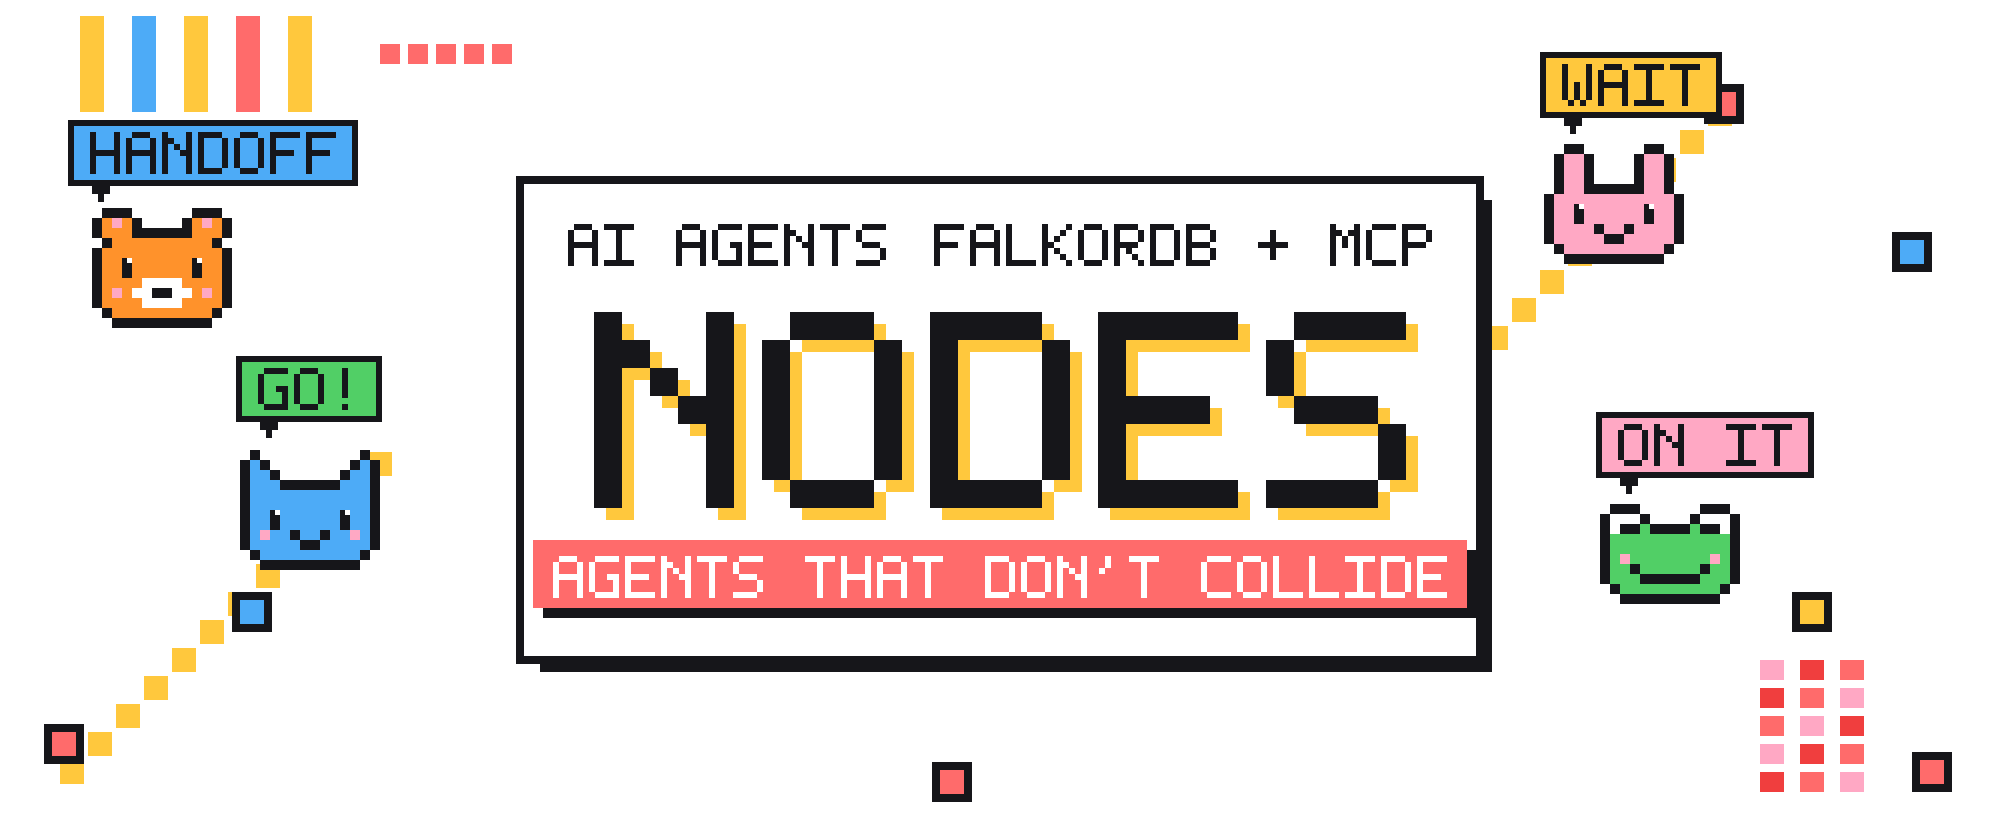
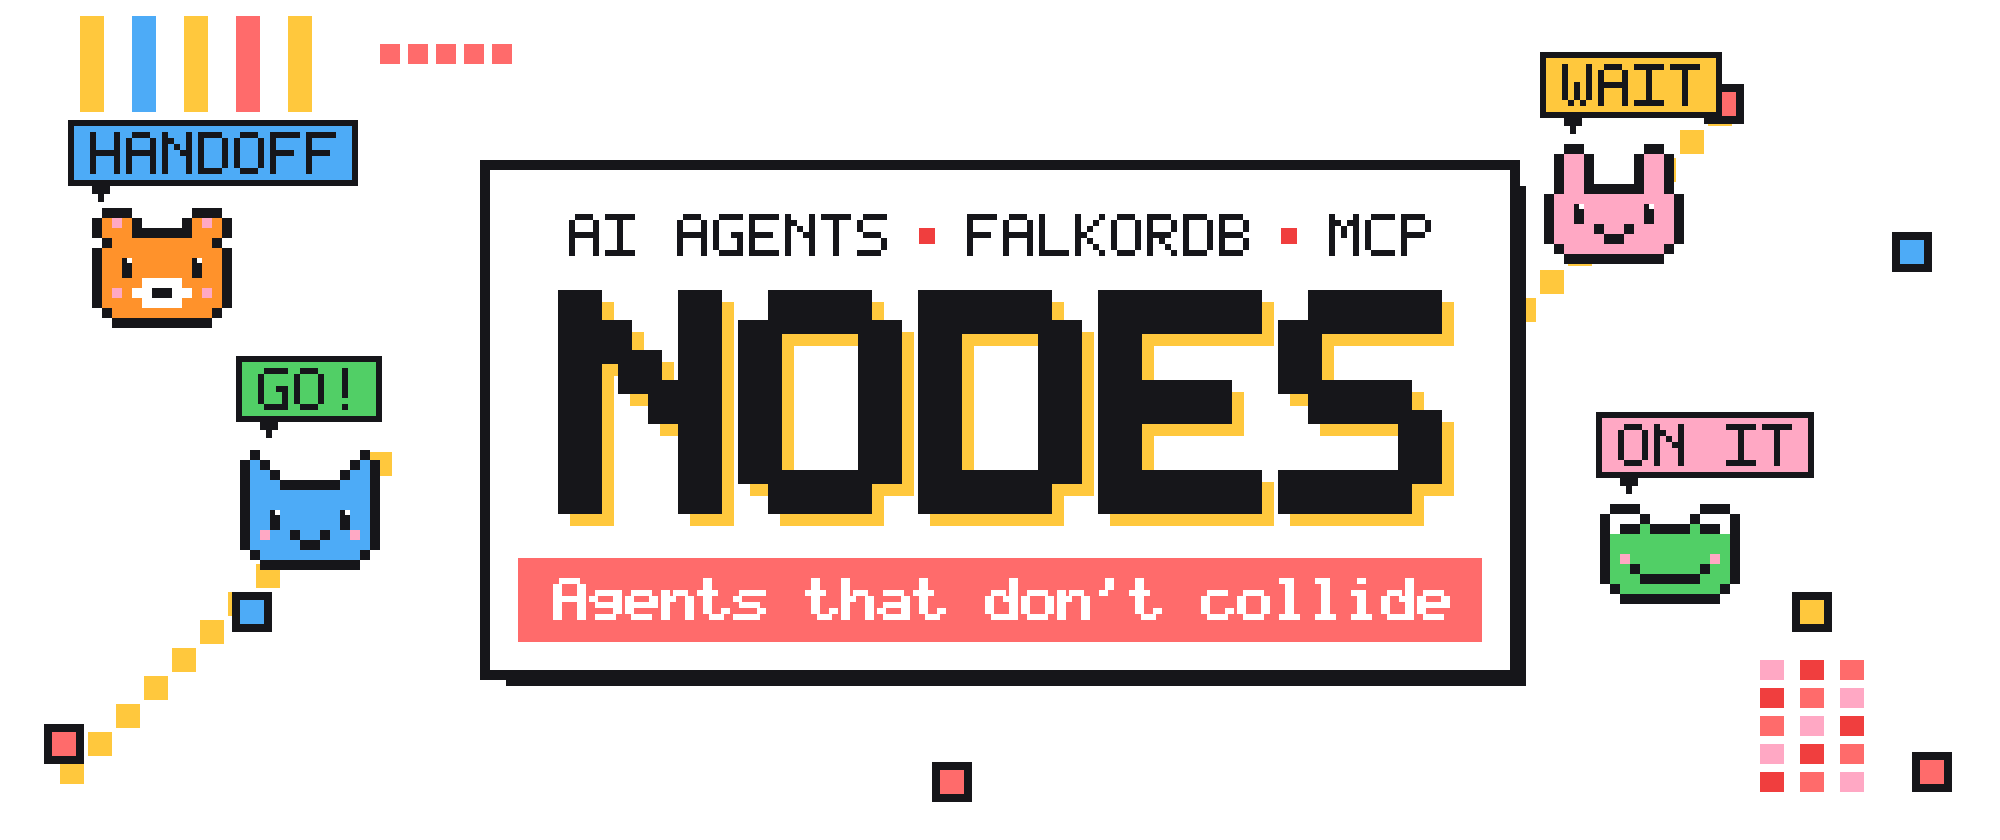
Cover: bold title, dotted header, mixed-case tagline bar

Changed region(s): [[0.217, 0.1857, 0.775, 0.8357]]

diff --git a/scripts/make_cover.py b/scripts/make_cover.py
@@ -46,6 +46,12 @@ FONT = {  # 5x7 pixel glyphs
     "+": "00000 00100 00100 11111 00100 00100 00000", ".": "00000 00000 00000 00000 00000 01100 01100",
     "!": "00100 00100 00100 00100 00100 00000 00100", "&": "01100 10010 10100 01000 10101 10010 01101",
     "/": "00001 00010 00010 00100 01000 01000 10000", "'": "00100 00100 01000 00000 00000 00000 00000", "·": "00000 00000 00000 01100 01100 00000 00000",
+    "a": "00000 00000 01110 00001 01111 10001 01111", "c": "00000 00000 01110 10000 10000 10001 01110",
+    "d": "00001 00001 01101 10011 10001 10001 01111", "e": "00000 00000 01110 10001 11111 10000 01110",
+    "g": "00000 00000 01111 10001 01111 00001 01110", "h": "10000 10000 10110 11001 10001 10001 10001",
+    "i": "00100 00000 01100 00100 00100 00100 01110", "l": "01100 00100 00100 00100 00100 00100 01110",
+    "n": "00000 00000 10110 11001 10001 10001 10001", "o": "00000 00000 01110 10001 10001 10001 01110",
+    "s": "00000 00000 01111 10000 01110 00001 11110", "t": "01000 01000 11100 01000 01000 01001 00110",
 }
 
 
@@ -118,24 +124,27 @@ for x0 in (880, 900, 920):  # a little pixel tower on the right
         rect(x0, 330 + k * 14, 12, 10, [RED, CORAL, PINK][(x0 // 20 + k) % 3])
 
 # the card
-cx, cy, cw, ch = 262, 92, 476, 236
+cx, cy, cw, ch = 245, 85, 510, 250
 rect(cx + 8, cy + 8, cw, ch, DARK)                     # hard pixel shadow
-rect(cx - 4, cy - 4, cw + 8, ch + 8, INK)
+rect(cx - 5, cy - 5, cw + 10, ch + 10, INK)
 rect(cx, cy, cw, ch, CREAM)
-text("AI AGENTS", cx + 22, cy + 20, 3, INK)
-right = "FALKORDB + MCP"
-text(right, cx + cw - 22 - width(right, 3), cy + 20, 3, INK)
+parts = ["AI AGENTS", "FALKORDB", "MCP"]               # header, split by red dots
+hw = sum(width(t, 3) for t in parts) + 40 * (len(parts) - 1)
+x = cx + (cw - hw) / 2
+for i, t in enumerate(parts):
+    x = text(t, x, cy + 22, 3, INK) - 3
+    if i < len(parts) - 1:
+        rect(x + 16, cy + 29, 8, 8, RED)
+        x += 40
 title = "NODES"
-tx = cx + (cw - width(title, 14)) / 2
-text(title, tx + 6, cy + 64 + 6, 14, YEL)               # offset shade
-text(title, tx, cy + 64, 14, DARK)
-pill = "AGENTS THAT DON'T COLLIDE"
-pw = width(pill, 3) + 20
-px0 = cx + (cw - pw) / 2
-rect(px0 + 5, cy + 178 + 5, pw, 34, INK)
-rect(px0, cy + 178, pw, 34, CORAL)
-rect(px0 + 3, cy + 181, pw - 6, 28, CORAL)
-text(pill, px0 + 10, cy + 186, 3, (255, 255, 255))
+tx = cx + (cw - width(title, 15) - 7) / 2
+for dx, dy, c in [(6, 6, YEL), (0, 0, DARK)]:          # bold: each glyph drawn twice, half a cell apart; yellow shade behind
+    for ox, oy in [(0, 0), (7, 0), (0, 7), (7, 7)]:
+        text(title, tx + dx + ox, cy + 60 + dy + oy, 15, c)
+pill = "Agents that don't collide"
+rect(cx + 14, cy + 194, cw - 28, 42, CORAL)
+for ox in (0, 1.5):                                     # bold, like the title
+    text(pill, cx + (cw - width(pill, 3)) / 2 + ox, cy + 204, 3, (255, 255, 255))
 
 # the nodes: four mascots on the graph, talking like the gate
 sprite("cat", 120, 225, 5, SKY)
